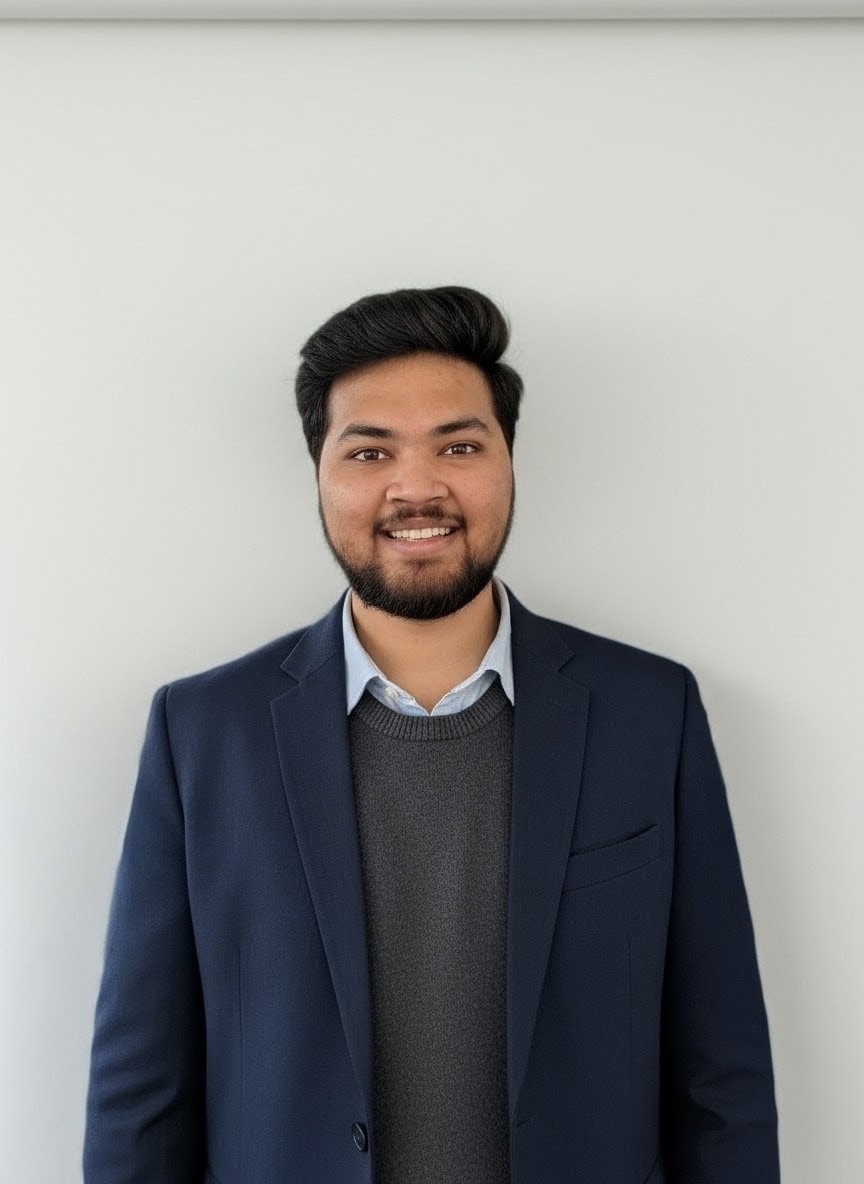
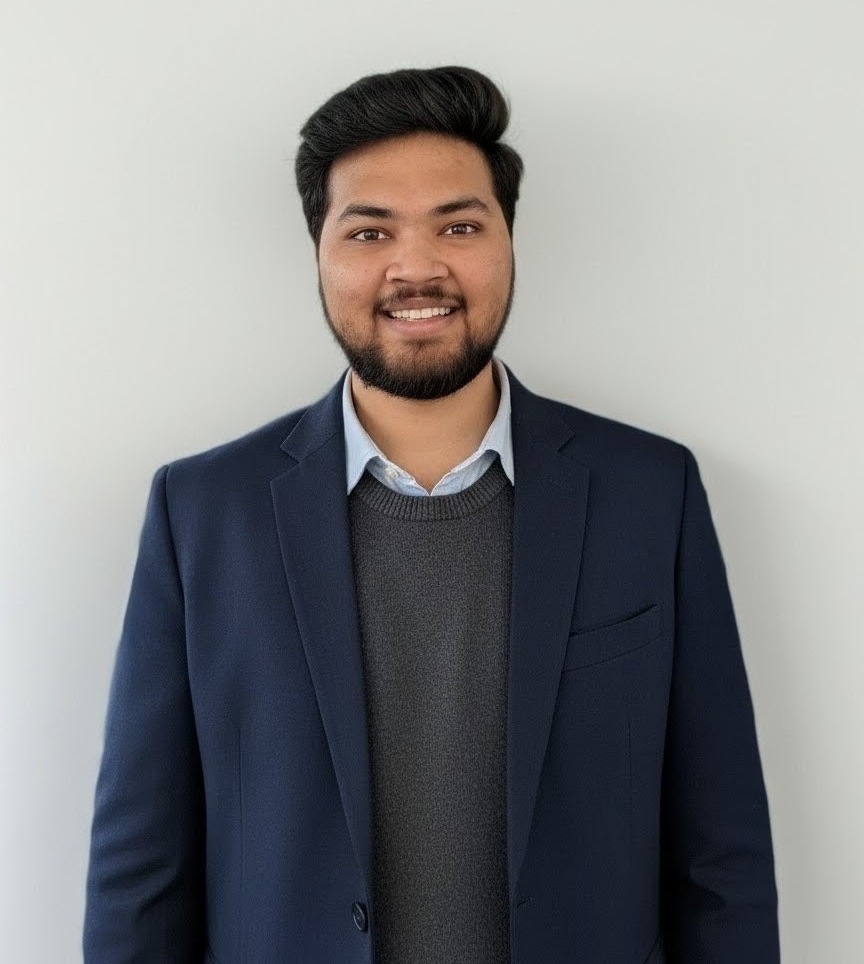
fix: crop hero photo at source, remove excess headroom
CSS object-position had almost no vertical slack to work with since the
container aspect ratio was already close to the source photo's, so the
blank wall space above the head barely moved. Cropped the source image
directly (removed ~220px from the top) instead.

diff --git a/src/components/Hero.tsx b/src/components/Hero.tsx
@@ -246,7 +246,7 @@ const Hero: React.FC = () => {
           width: 100%;
           height: 100%;
           object-fit: cover;
-          object-position: center 24%;
+          object-position: center 10%;
         }
 
         @media (max-width: 1024px) {
